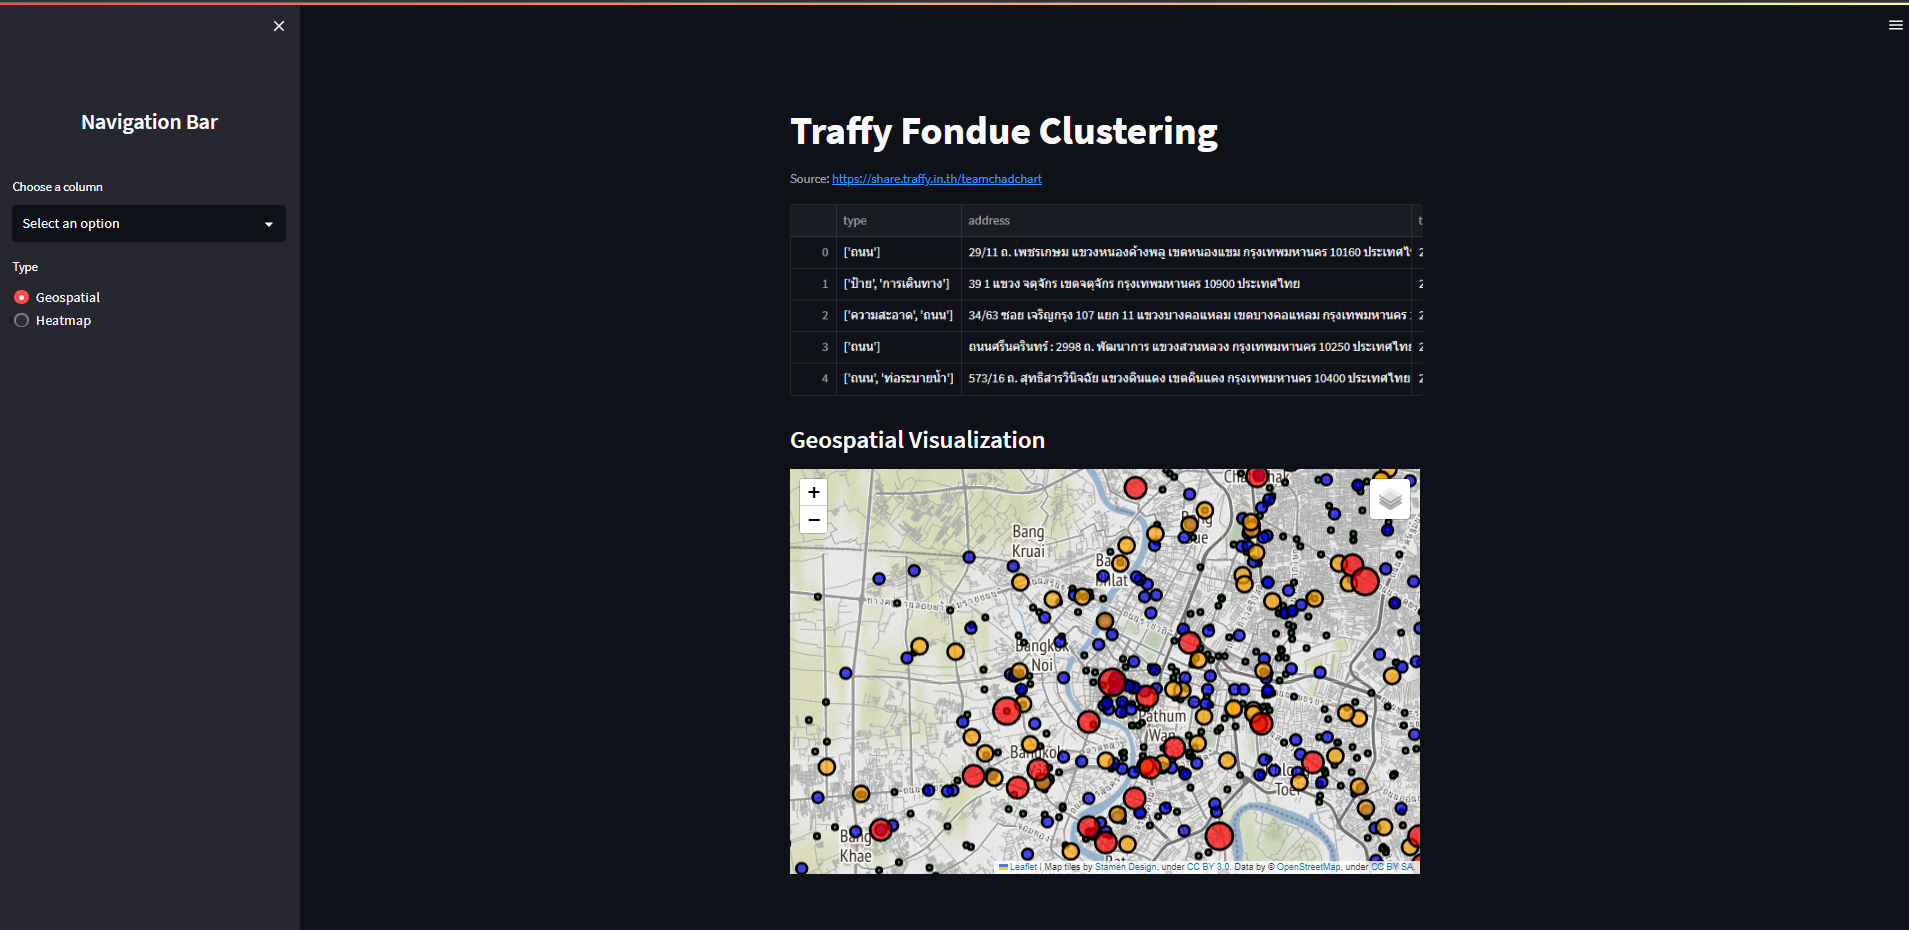
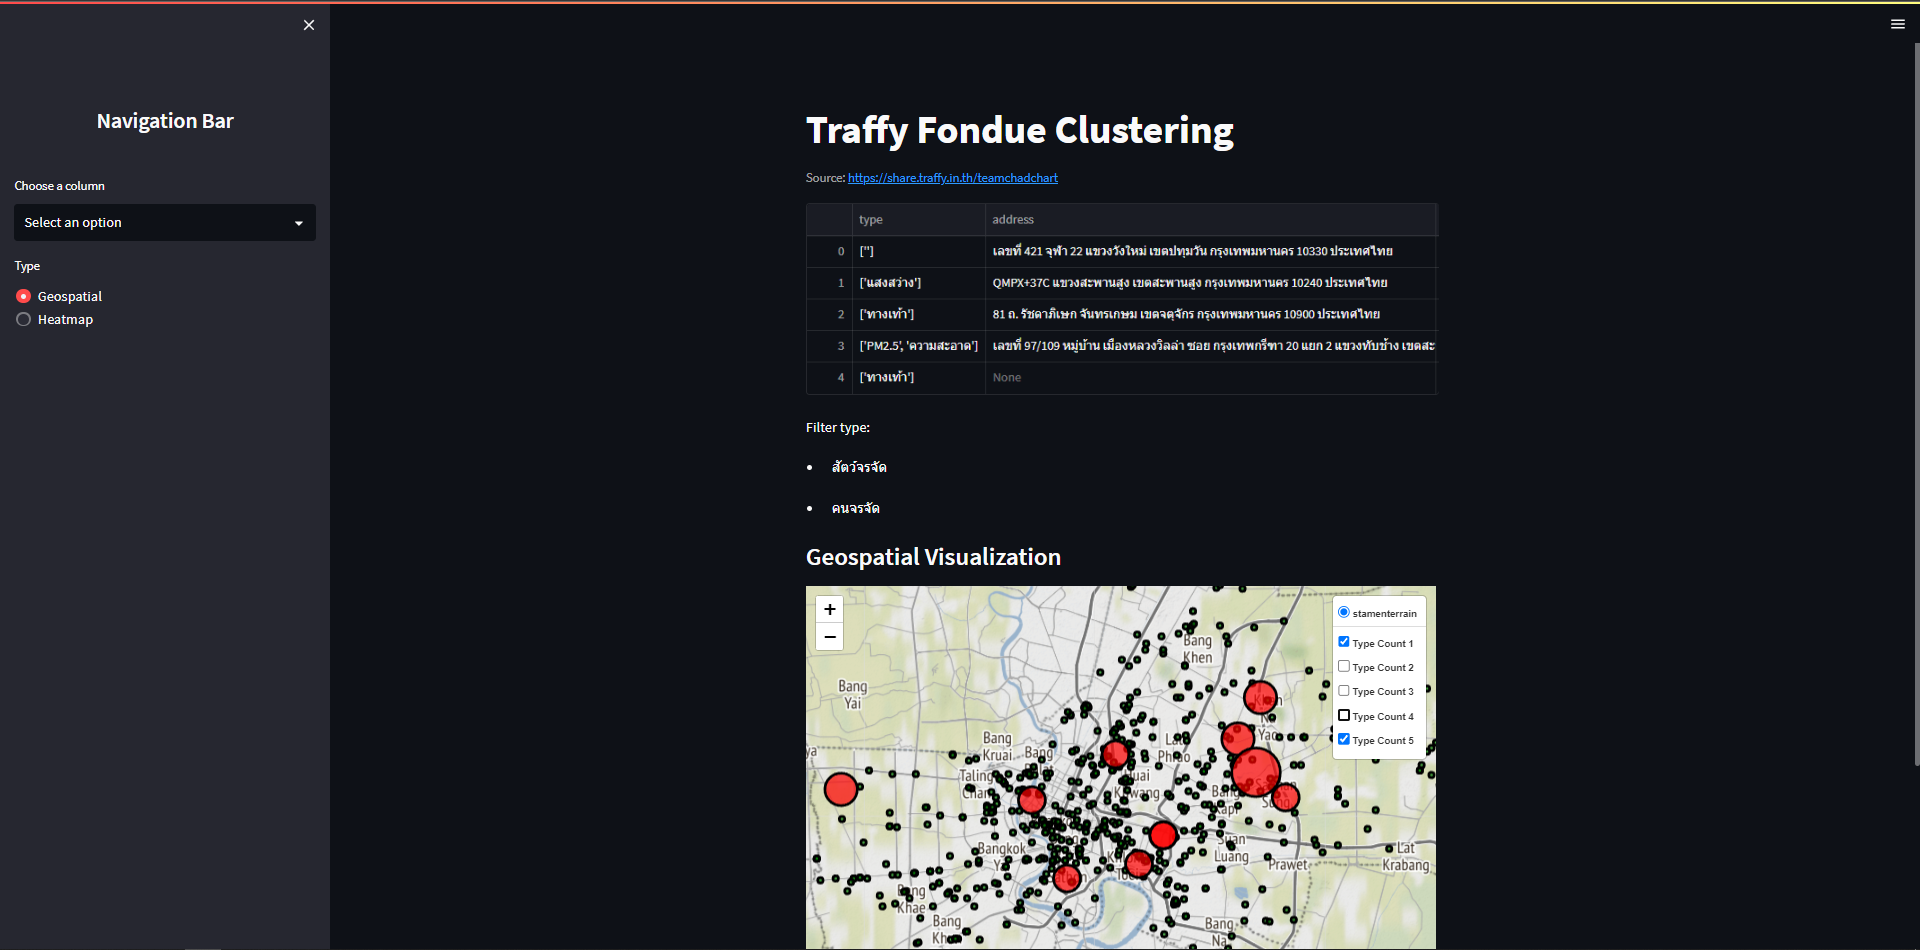
add dashboard screenshot

diff --git a/README.md b/README.md
@@ -95,13 +95,14 @@ The webserver is available at: `http://localhost:8501`
 
 <p align="left">
     <img src="./assets/dashboard1.png" height="400" />
+    <img src="./assets/dashboard2.png" height="400" />
 </p>
 
 
 ## Interesting Insight
 
 - low-income heatmap  
-- filter by road, sidewalk, and ditch
+- filter: ["ความสะอาด"]
 
 <p align="left">
     <img src="./assets/result.png" height="400" />
